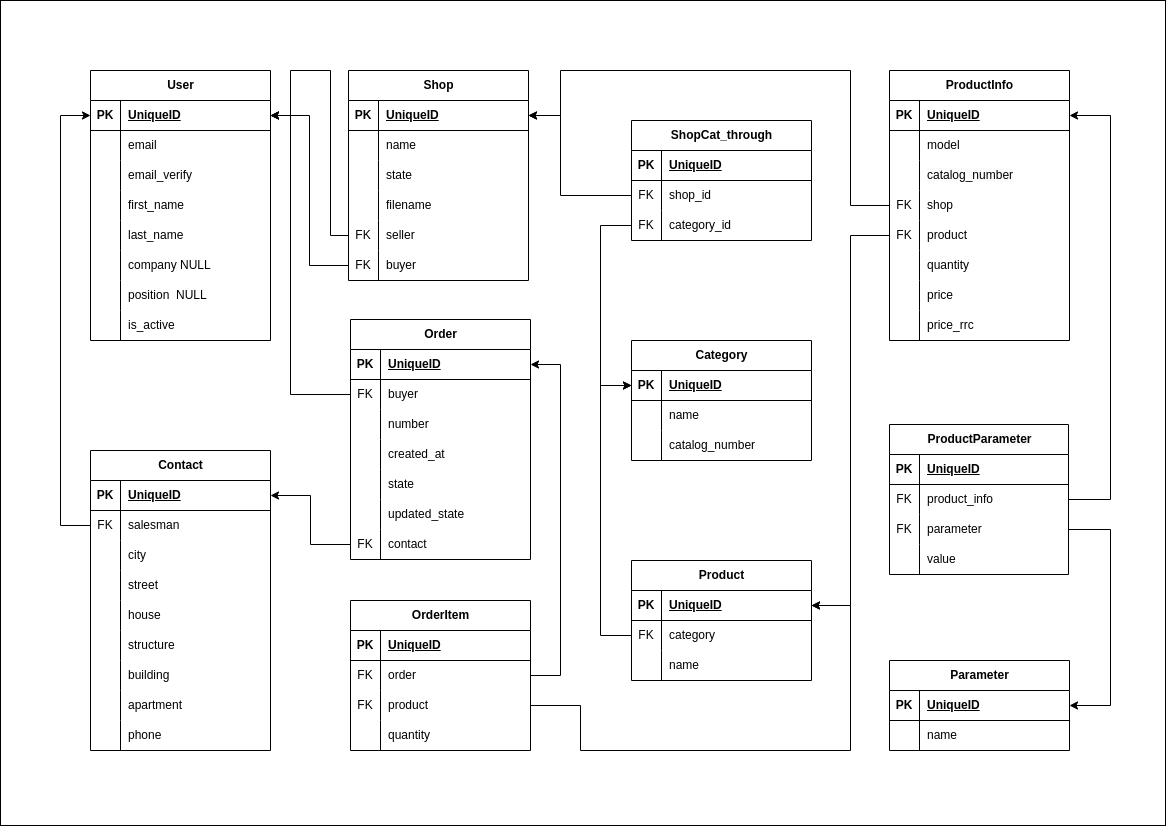
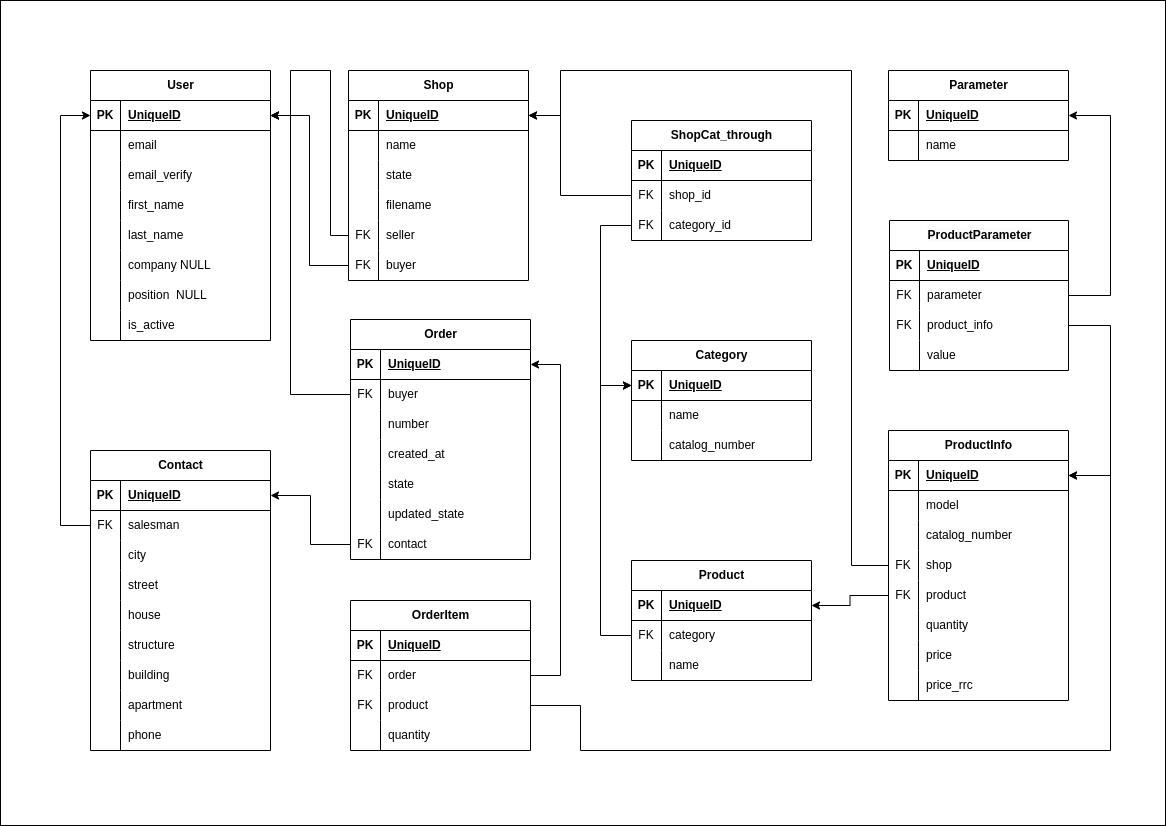
Вносит небольшие изменения в БД.
В моделе 'Shop' из поля 'state' убрал дерективу сохранения значения по умолчанию,
она мешала корректной работе переопределённой функции 'save'.
В моделе 'Category' для поля 'catalog_number' добавил условие уникальности.
В моделе 'ProductInfo' для поля 'model' добавил возможность отсутствия параметра;
Для полей 'quantity', 'price' и 'price_rrc' указал сохраненять значения по умолчанию 0 (ноль);
Изменил строковое представление "Категории" и "Товара".
В моделе 'ProductParameter' для поля 'product_info' добавил возможность отсутствия параметра,
и для поля 'value' задал возможность установки пустого значения.
Саму проверку наличия значения 'value' буду выполнять в программном коде, в сериализаторе.
В моделе 'Order' в классе 'Status' добавил значение для "Удалённых" заказов.
Для моделей 'Contact', 'Category', 'Product', 'ProductInfo', 'Parameter', 'ProductParameter',
'Order' и 'OrderItem' добавил собственное исключение 'DoesNotExist'.
В нескольких моделях переименовал "Продукт" на "Товар".
Выполнил миграции.

Привёл в соответствие схему взаимосвязей между моделями проекта.

Changes committed:
    1. modified:   models.png
    1. new file:   reference/my_diplom/backend/migrations/0004_alter_parameter_options_alter_product_options_and_more.py
    2. modified:   reference/my_diplom/backend/models.py

diff --git a/reference/my_diplom/backend/models.py b/reference/my_diplom/backend/models.py
@@ -5,7 +5,7 @@ Salesman = get_user_model()
 
 
 class Contact(models.Model):
-    """ Контакты пользователя.
+    """ Контакт пользователя.
     """
     salesman = models.ForeignKey(
         to=Salesman, on_delete=models.CASCADE, related_name='contacts', verbose_name='Покупатель'
@@ -19,10 +19,11 @@ class Contact(models.Model):
     phone = models.CharField(max_length=20, null=True, blank=True, verbose_name='Телефон')
 
     objects = models.Manager()
+    DoesNotExist = models.Manager
 
     class Meta:
-        verbose_name = 'Контакты пользователя'
-        verbose_name_plural = "Список контактов пользователя"
+        verbose_name = 'Контакт пользователя'
+        verbose_name_plural = 'Список контактов'
 
     def __str__(self):
         return f'{self.id}: {self.city}, {self.street} {self.house}'
@@ -52,18 +53,18 @@ class Shop(models.Model):
                                   verbose_name='Менеджер по продажам')
     buyer = models.OneToOneField(to=Salesman, on_delete=models.SET_NULL, null=True, blank=True, related_name='buyer',
                                  verbose_name='Менеджер по закупкам')
-    state = models.CharField(max_length=2, choices=Worked.choices, default=Worked.CLOSE, verbose_name='Приём заказов')
+    state = models.CharField(max_length=2, choices=Worked.choices, verbose_name='Приём заказов')
 
     objects = models.Manager()
     DoesNotExist = models.Manager
 
     class Meta:
         verbose_name = 'Магазин'
-        verbose_name_plural = "Список магазинов"
+        verbose_name_plural = 'Список магазинов'
         ordering = ['name']
 
     def __str__(self):
-        return self.name
+        return f'{self.id}: {self.name}'
 
     def save(self, *args, **kwargs):
         """ Сохраняет состояние магазина.
@@ -83,10 +84,11 @@ class Category(models.Model):
     """ Категория товара.
     """
     name = models.CharField(max_length=40, unique=True, verbose_name='Название')
-    catalog_number = models.IntegerField(verbose_name='Номер по каталогу')
+    catalog_number = models.IntegerField(unique=True, verbose_name='Номер по каталогу')
     shops = models.ManyToManyField(to=Shop, blank=True, related_name='categories', verbose_name='Магазины')
 
     objects = models.Manager()
+    DoesNotExist = models.Manager
 
     class Meta:
         verbose_name = 'Категория'
@@ -94,65 +96,68 @@ class Category(models.Model):
         ordering = ('name',)
 
     def __str__(self):
-        return self.name
+        return f'{self.id}: {self.name}, num={self.catalog_number}'
 
 
 class Product(models.Model):
-    """ Продукт.
+    """ Товар.
     """
     name = models.CharField(max_length=80, unique=True, verbose_name='Название')
     category = models.ForeignKey(to=Category, on_delete=models.CASCADE, null=True, blank=True, related_name='products',
                                  verbose_name='Категория')
 
     objects = models.Manager()
+    DoesNotExist = models.Manager
 
     class Meta:
-        verbose_name = 'Продукт'
-        verbose_name_plural = "Список продуктов"
+        verbose_name = 'Товар'
+        verbose_name_plural = 'Список товаров'
         ordering = ('name',)
 
     def __str__(self):
-        return self.name
+        return f'{self.id}: {self.name}'
 
 
 class ProductInfo(models.Model):
     """ Описание товара.
     """
-    model = models.CharField(max_length=80, verbose_name='Модель')
+    model = models.CharField(max_length=80, null=True, blank=True, verbose_name='Модель')
     catalog_number = models.PositiveIntegerField(verbose_name='Номер по каталогу')
     product = models.ForeignKey(to=Product, on_delete=models.CASCADE, null=True, blank=True,
-                                related_name='product_infos', verbose_name='Продукт')
-    shop = models.ForeignKey(to=Shop, on_delete=models.CASCADE, null=True, blank=True, related_name='product_infos',
+                                related_name='product_infos', verbose_name='Товар')
+    shop = models.ForeignKey(to=Shop, on_delete=models.SET_NULL, null=True, blank=True, related_name='product_infos',
                              verbose_name='Магазин')
-    quantity = models.PositiveIntegerField(null=True, blank=True, verbose_name='Количество')
-    price = models.PositiveIntegerField(null=True, blank=True, verbose_name='Закупочная цена')
-    price_rrc = models.PositiveIntegerField(null=True, blank=True, verbose_name='Рекомендуемая розничная цена')
+    quantity = models.PositiveIntegerField(default=0, verbose_name='Количество')
+    price = models.PositiveIntegerField(default=0, verbose_name='Закупочная цена')
+    price_rrc = models.PositiveIntegerField(default=0, verbose_name='Рекомендуемая розничная цена')
 
     objects = models.Manager()
+    DoesNotExist = models.Manager
 
     class Meta:
-        verbose_name = 'Информация о продукте'
-        verbose_name_plural = "Информационный список о продуктах"
+        verbose_name = 'Информация о товаре'
+        verbose_name_plural = 'Информация о товарах'
         constraints = [
             models.UniqueConstraint(fields=['product', 'shop', 'catalog_number'], name='unique_product_info'),
         ]
 
     def __str__(self):
-        return f'{self.product.name} {self.model}'
+        return f'{str(self.product)}, external_id={self.catalog_number}'
 
 
 class Parameter(models.Model):
     """ Параметр товара.
     """
     name = models.CharField(max_length=40, unique=True, verbose_name='Название параметра')
-    products = models.ManyToManyField(to=ProductInfo, through='ProductParameter', blank=True,
-                                      related_name='parameters', verbose_name='Магазины')
+    products = models.ManyToManyField(to=ProductInfo, through='ProductParameter', related_name='parameters',
+                                      verbose_name='Товары')
 
     objects = models.Manager()
+    DoesNotExist = models.Manager
 
     class Meta:
-        verbose_name = 'Имя параметра'
-        verbose_name_plural = "Список имён параметров"
+        verbose_name = 'Название параметра'
+        verbose_name_plural = 'Список параметров'
         ordering = ('name',)
 
     def __str__(self):
@@ -162,17 +167,18 @@ class Parameter(models.Model):
 class ProductParameter(models.Model):
     """ Значение параметра товара.
     """
-    product_info = models.ForeignKey(to=ProductInfo, on_delete=models.CASCADE, related_name='product_parameters',
-                                     verbose_name='Описание товара')
+    product_info = models.ForeignKey(to=ProductInfo, on_delete=models.SET_NULL, null=True, blank=True,
+                                     related_name='product_parameters', verbose_name='Товар')
     parameter = models.ForeignKey(to=Parameter, on_delete=models.CASCADE, related_name='product_parameters',
                                   verbose_name='Название параметра')
-    value = models.CharField(max_length=100, verbose_name='Значение параметра')
+    value = models.CharField(max_length=100, null=True, blank=True, verbose_name='Значение параметра')
 
     objects = models.Manager()
+    DoesNotExist = models.Manager
 
     class Meta:
         verbose_name = 'Значение параметра'
-        verbose_name_plural = "Список значений параметров"
+        verbose_name_plural = 'Значения параметров'
         constraints = [
             models.UniqueConstraint(fields=['product_info', 'parameter'], name='unique_product_parameter'),
         ]
@@ -185,31 +191,30 @@ class Order(models.Model):
         """ Статусы состояния заказа. """
         BASKET = 'BS', 'В корзине'
         NEW = 'NE', 'Новый'
-        """ 1) На данный момент Вам недоступно изменение заказа. Нужно отменить заказ.
-            2) Ваш заказ отменён.
-        """
         CONFIRMED = 'CF', 'Подтверждён'
         ASSEMBLED = 'AS', 'Собран'
         SENT = 'SN', 'Отправлен'
         CANCELED = 'CN', 'Отменён'
         # DELIVERED = 'DV', 'Доставлен'    # Заменил на "Получен".
         RECEIVED = 'RC', 'Получен'
+        DELETE = 'DL', 'Удалён'            # Добавил для "Удалённых" заказов.
 
     customer = models.ForeignKey(to=Salesman, on_delete=models.CASCADE, related_name='orders',
                                  verbose_name='Покупатель')
     created_at = models.DateTimeField(auto_now_add=True, verbose_name='Дата создания')
     state = models.CharField(max_length=2, choices=Status.choices, default=Status.BASKET, verbose_name='Статус')
     updated_state = models.DateTimeField(auto_now=True, verbose_name='Дата изменения')
-    contact = models.ForeignKey(to=Contact, on_delete=models.CASCADE, null=True, blank=True,
+    contact = models.ForeignKey(to=Contact, on_delete=models.SET_NULL, null=True, blank=True,
                                 related_name='orders', verbose_name='Адрес доставки')
     product_infos = models.ManyToManyField(to=ProductInfo, through='OrderItem', related_name='orders',
-                                          verbose_name='Магазины')
+                                          verbose_name='Товары')
 
     objects = models.Manager()
+    DoesNotExist = models.Manager
 
     class Meta:
         verbose_name = 'Заказ'
-        verbose_name_plural = "Список заказов"
+        verbose_name_plural = 'Список заказов'
         ordering = ['-created_at']
 
     def __str__(self):
@@ -227,14 +232,15 @@ class OrderItem(models.Model):
     """
     order = models.ForeignKey(to=Order, on_delete=models.CASCADE, related_name='ordered_items', verbose_name='Заказ')
     product_info = models.ForeignKey(to=ProductInfo, on_delete=models.CASCADE, related_name='ordered_items',
-                                verbose_name='Продукт')
+                                verbose_name='Товар')
     quantity = models.PositiveIntegerField(default=1, verbose_name='Количество')
 
     objects = models.Manager()
+    DoesNotExist = models.Manager
 
     class Meta:
         verbose_name = 'Заказанная позиция'
-        verbose_name_plural = "Список заказанных позиций"
+        verbose_name_plural = 'Список заказанных позиций'
         constraints = [
-            models.UniqueConstraint(fields=['order_id', 'product_info'], name='unique_order_item'),
+            models.UniqueConstraint(fields=['order', 'product_info'], name='unique_order_item'),
         ]

diff --git a/reference/my_diplom/backend/migrations/0004_alter_contact_options_alter_parameter_options_and_more.py b/reference/my_diplom/backend/migrations/0004_alter_contact_options_alter_parameter_options_and_more.py
@@ -1,0 +1,117 @@
+# Generated by Django 5.0.6 on 2024-08-31 13:47
+
+import django.db.models.deletion
+from django.db import migrations, models
+
+
+class Migration(migrations.Migration):
+
+    dependencies = [
+        ('backend', '0003_parameter_category_order_product_productinfo_and_more'),
+    ]
+
+    operations = [
+        migrations.AlterModelOptions(
+            name='contact',
+            options={'verbose_name': 'Контакт пользователя', 'verbose_name_plural': 'Список контактов'},
+        ),
+        migrations.AlterModelOptions(
+            name='parameter',
+            options={'ordering': ('name',), 'verbose_name': 'Название параметра', 'verbose_name_plural': 'Список параметров'},
+        ),
+        migrations.AlterModelOptions(
+            name='product',
+            options={'ordering': ('name',), 'verbose_name': 'Товар', 'verbose_name_plural': 'Список товаров'},
+        ),
+        migrations.AlterModelOptions(
+            name='productinfo',
+            options={'verbose_name': 'Информация о товаре', 'verbose_name_plural': 'Информация о товарах'},
+        ),
+        migrations.AlterModelOptions(
+            name='productparameter',
+            options={'verbose_name': 'Значение параметра', 'verbose_name_plural': 'Значения параметров'},
+        ),
+        migrations.RemoveConstraint(
+            model_name='orderitem',
+            name='unique_order_item',
+        ),
+        migrations.AlterField(
+            model_name='category',
+            name='catalog_number',
+            field=models.IntegerField(unique=True, verbose_name='Номер по каталогу'),
+        ),
+        migrations.AlterField(
+            model_name='order',
+            name='contact',
+            field=models.ForeignKey(blank=True, null=True, on_delete=django.db.models.deletion.SET_NULL, related_name='orders', to='backend.contact', verbose_name='Адрес доставки'),
+        ),
+        migrations.AlterField(
+            model_name='order',
+            name='product_infos',
+            field=models.ManyToManyField(related_name='orders', through='backend.OrderItem', to='backend.productinfo', verbose_name='Товары'),
+        ),
+        migrations.AlterField(
+            model_name='order',
+            name='state',
+            field=models.CharField(choices=[('BS', 'В корзине'), ('NE', 'Новый'), ('CF', 'Подтверждён'), ('AS', 'Собран'), ('SN', 'Отправлен'), ('CN', 'Отменён'), ('RC', 'Получен'), ('DL', 'Удалён')], default='BS', max_length=2, verbose_name='Статус'),
+        ),
+        migrations.AlterField(
+            model_name='orderitem',
+            name='product_info',
+            field=models.ForeignKey(on_delete=django.db.models.deletion.CASCADE, related_name='ordered_items', to='backend.productinfo', verbose_name='Товар'),
+        ),
+        migrations.AlterField(
+            model_name='parameter',
+            name='products',
+            field=models.ManyToManyField(related_name='parameters', through='backend.ProductParameter', to='backend.productinfo', verbose_name='Товары'),
+        ),
+        migrations.AlterField(
+            model_name='productinfo',
+            name='model',
+            field=models.CharField(blank=True, max_length=80, null=True, verbose_name='Модель'),
+        ),
+        migrations.AlterField(
+            model_name='productinfo',
+            name='price',
+            field=models.PositiveIntegerField(default=0, verbose_name='Закупочная цена'),
+        ),
+        migrations.AlterField(
+            model_name='productinfo',
+            name='price_rrc',
+            field=models.PositiveIntegerField(default=0, verbose_name='Рекомендуемая розничная цена'),
+        ),
+        migrations.AlterField(
+            model_name='productinfo',
+            name='product',
+            field=models.ForeignKey(blank=True, null=True, on_delete=django.db.models.deletion.CASCADE, related_name='product_infos', to='backend.product', verbose_name='Товар'),
+        ),
+        migrations.AlterField(
+            model_name='productinfo',
+            name='quantity',
+            field=models.PositiveIntegerField(default=0, verbose_name='Количество'),
+        ),
+        migrations.AlterField(
+            model_name='productinfo',
+            name='shop',
+            field=models.ForeignKey(blank=True, null=True, on_delete=django.db.models.deletion.SET_NULL, related_name='product_infos', to='backend.shop', verbose_name='Магазин'),
+        ),
+        migrations.AlterField(
+            model_name='productparameter',
+            name='product_info',
+            field=models.ForeignKey(blank=True, null=True, on_delete=django.db.models.deletion.SET_NULL, related_name='product_parameters', to='backend.productinfo', verbose_name='Товар'),
+        ),
+        migrations.AlterField(
+            model_name='productparameter',
+            name='value',
+            field=models.CharField(blank=True, max_length=100, null=True, verbose_name='Значение параметра'),
+        ),
+        migrations.AlterField(
+            model_name='shop',
+            name='state',
+            field=models.CharField(choices=[('OP', 'Открыт'), ('CL', 'Закрыт')], max_length=2, verbose_name='Приём заказов'),
+        ),
+        migrations.AddConstraint(
+            model_name='orderitem',
+            constraint=models.UniqueConstraint(fields=('order', 'product_info'), name='unique_order_item'),
+        ),
+    ]
